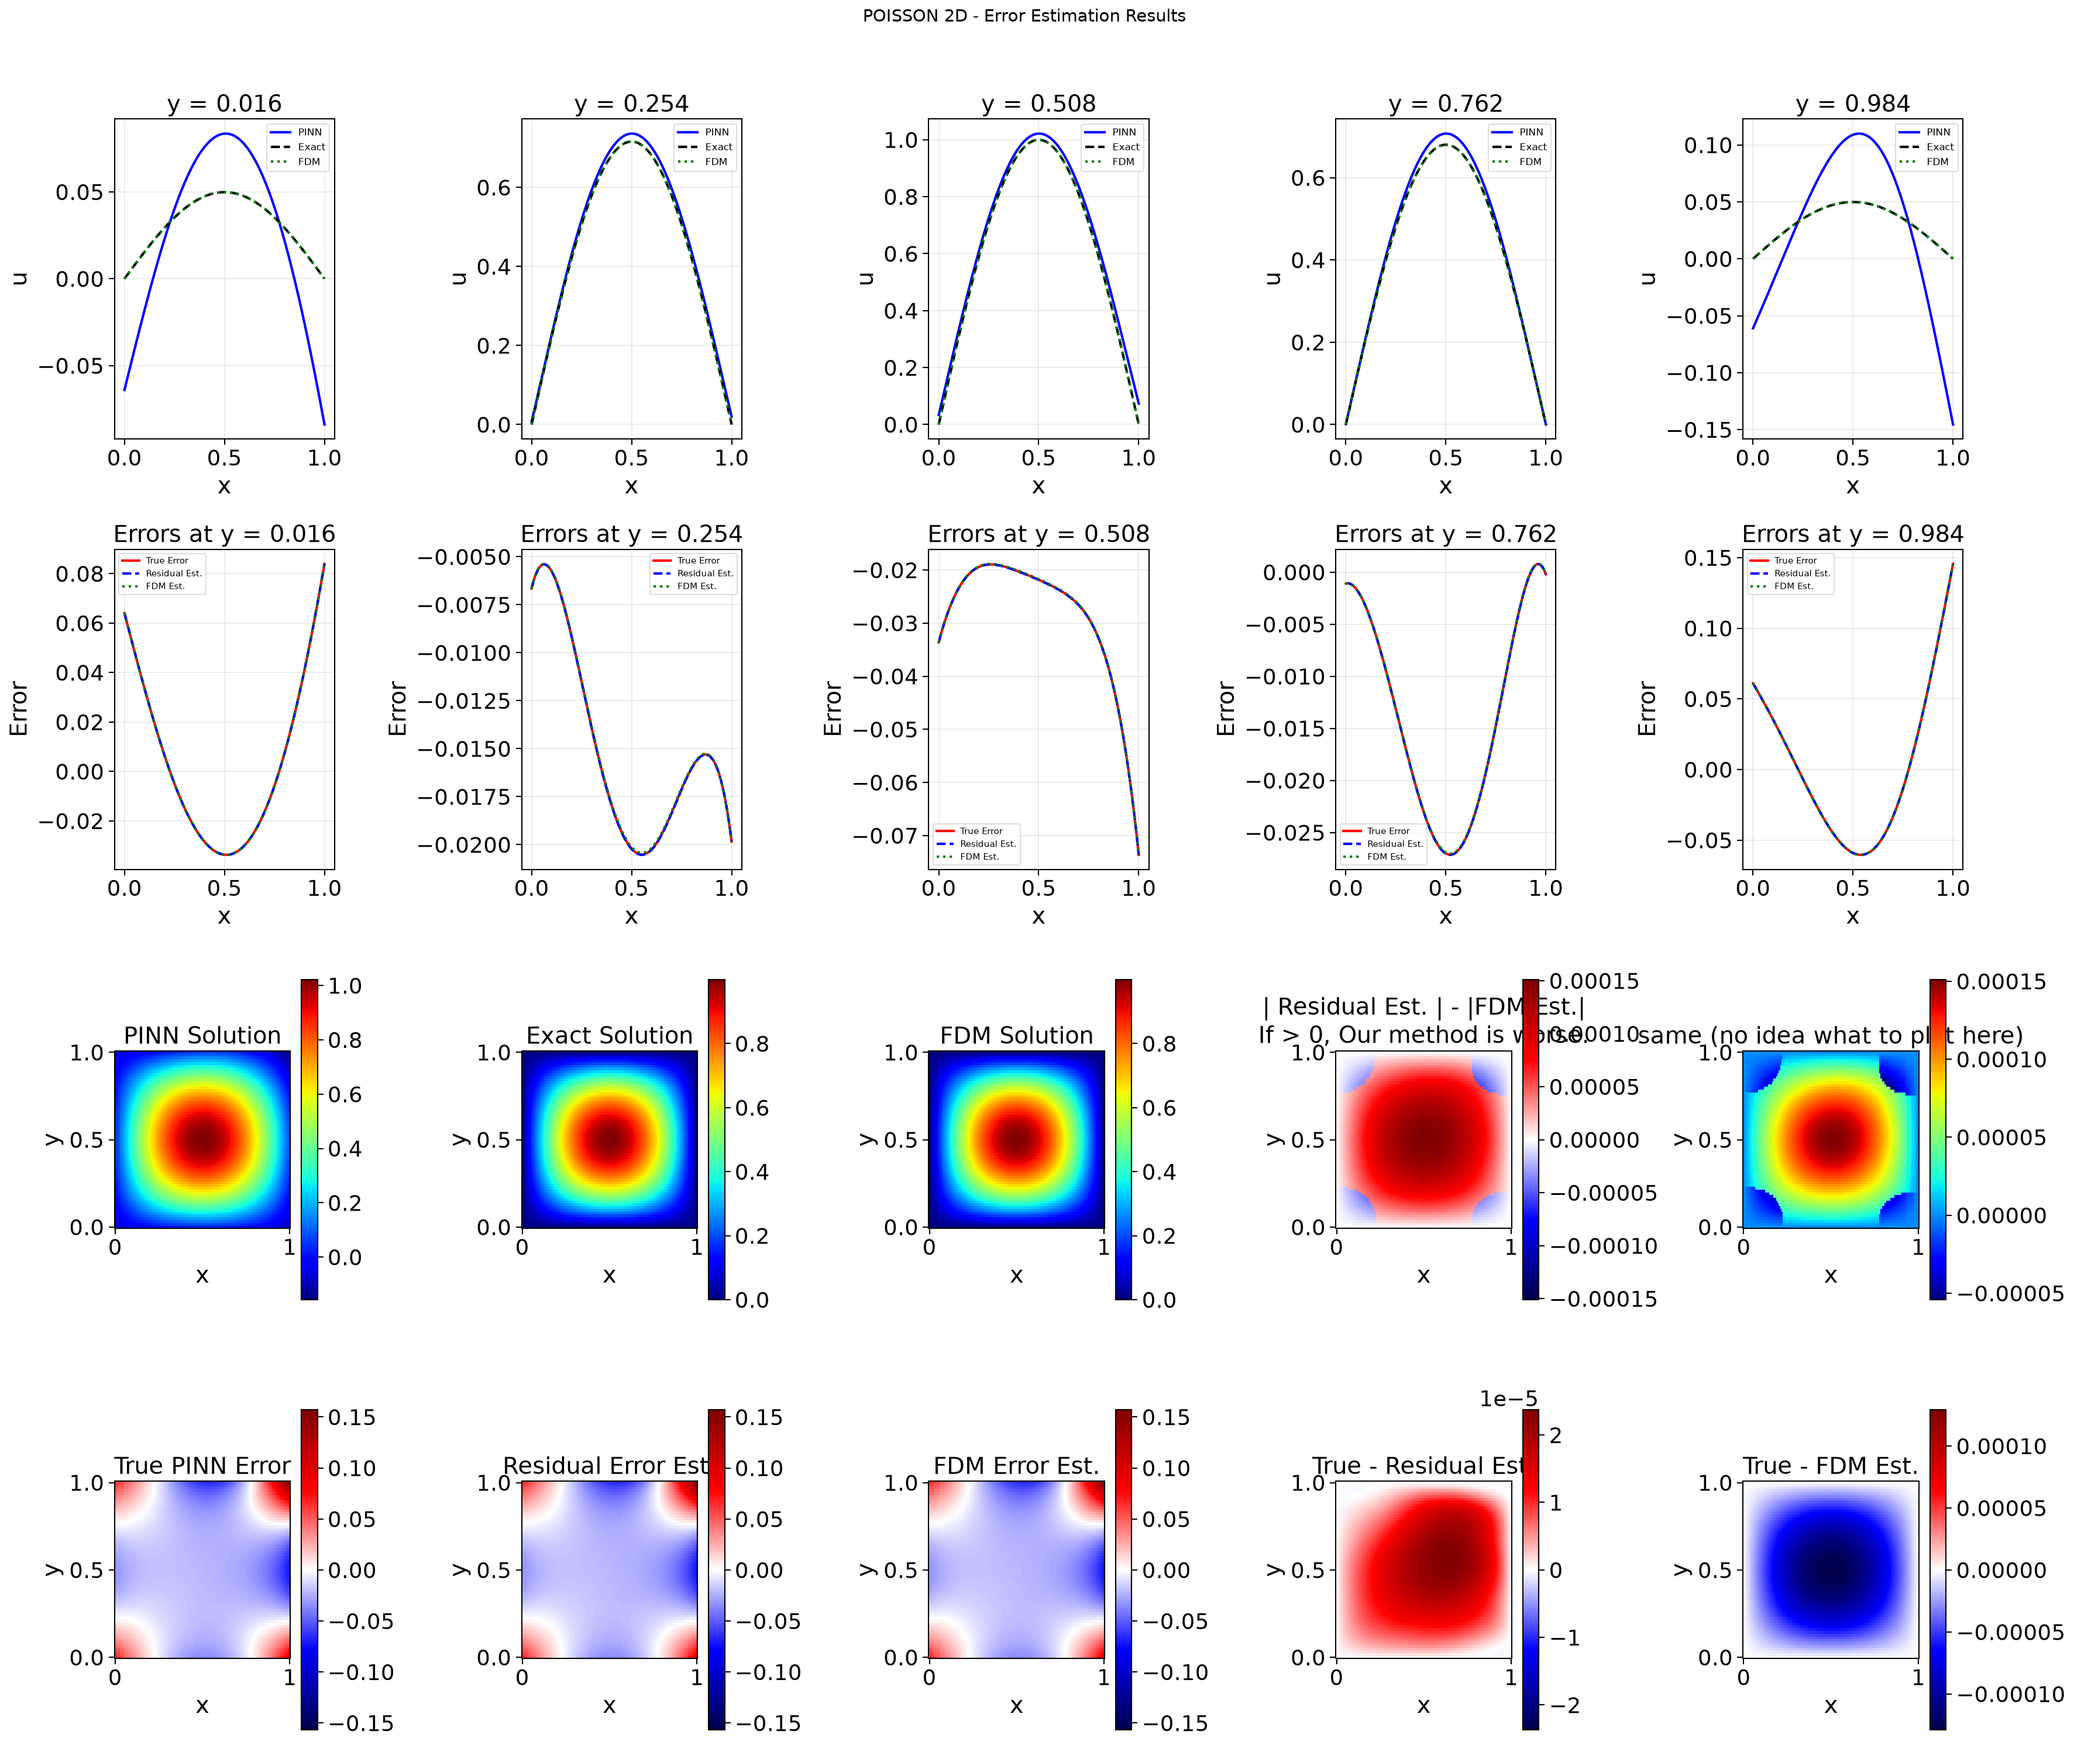
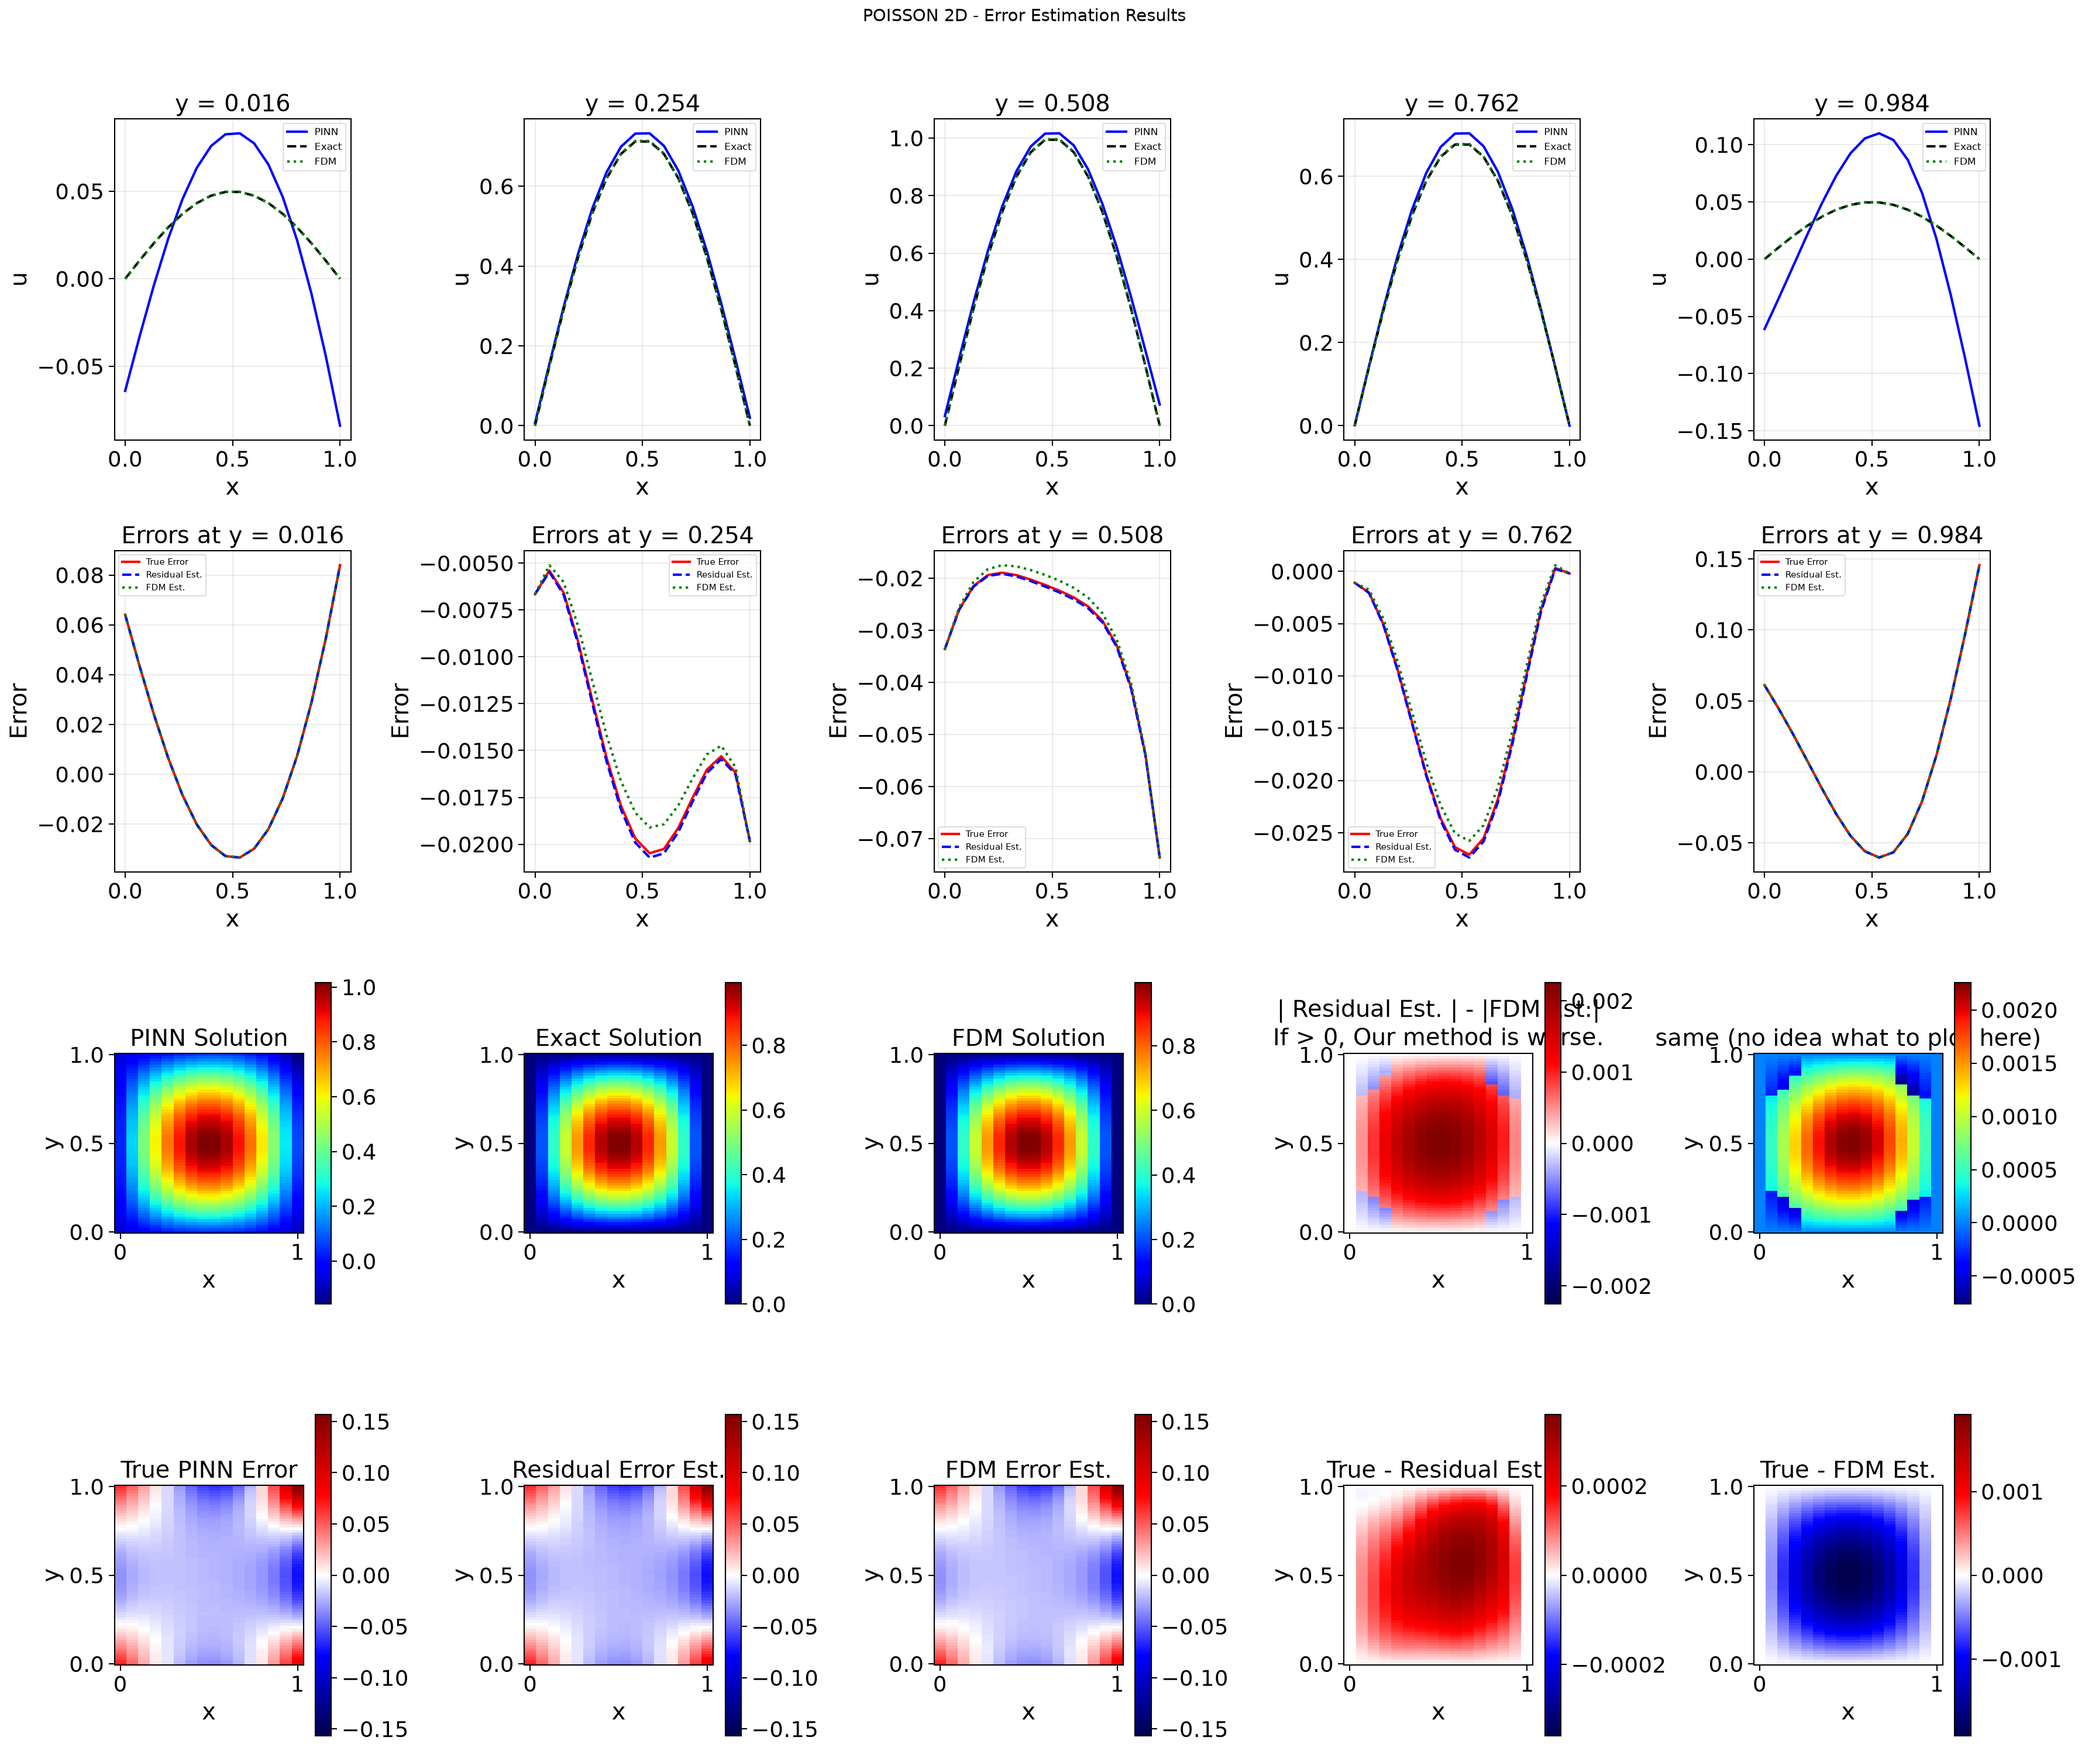
IC reshaping for drift_diffusion soft constraints

diff --git a/pinn_error/problems/drift_diffusion.py b/pinn_error/problems/drift_diffusion.py
@@ -209,10 +209,11 @@ class DriftDiffusion(BaseProblem):
             return A * torch.sin(k * x + phi)
         else:
             # if x has both space and time
+            is_grid = x.ndim == 1  # 1D spatial grid (FDM); else (N, dim) points
             if len(x.shape) > 1 and x.shape[1] > 1:
                 x = x[:, 0:1]  # extract x coord
             values = A * np.sin(k * x + phi)
-            return np.asarray(values).reshape(-1)
+            return values.reshape(-1) if is_grid else values.reshape(-1, 1)
 
 
     def exact_solution(self, x, t) -> np.ndarray:
